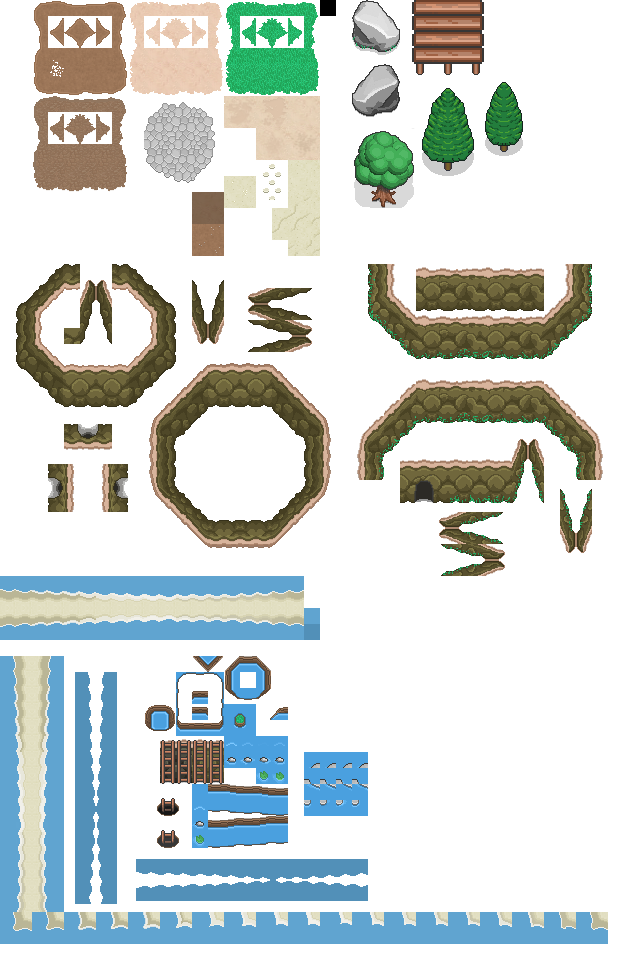
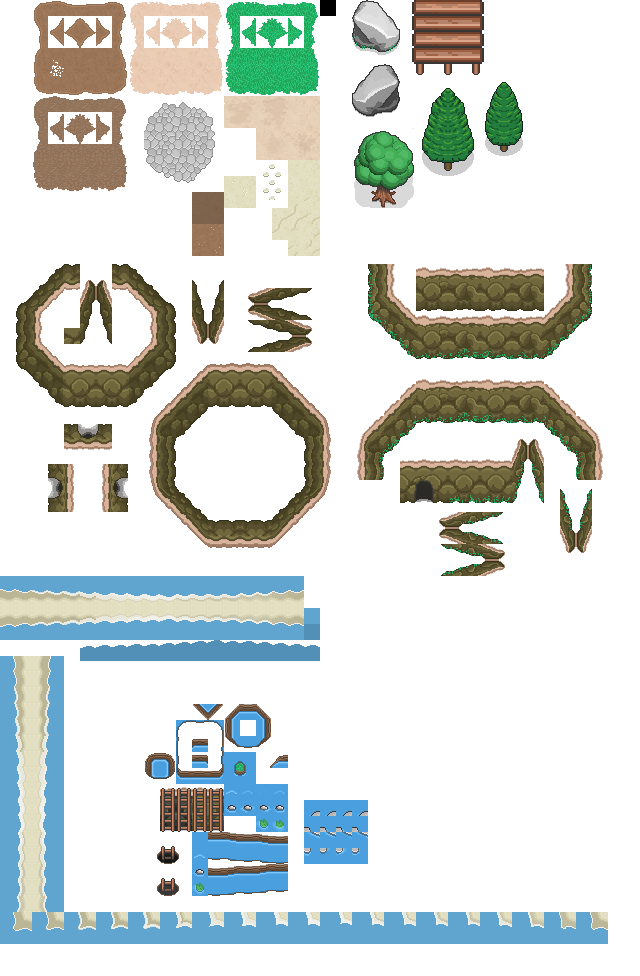
Added animations for the second set of waves

Changed region(s): [[0.0938, 0.6455, 0.5938, 0.9529]]

diff --git a/js/entrance.js b/js/entrance.js
@@ -18,13 +18,25 @@ var EntranceState = {
         //Create and animate the shore
         //Create a group of sprites to be the south shore, and animate them
         shore = game.add.group();
-        for (var i = 6; i < 400; i++) {
-            shorePiece =  shore.create(i*16,2320, 'shoreBottom');
+        for (var i = 2; i < 40; i++) {
+            shorePiece =  shore.create(i*16,720, 'shoreBottom');
+
         }
 
         shore.callAll('animations.add', 'animations', 'wave',
             [0,1,2,3,4,5,6,7,8,9,10,11,12,13,14,15,16,17,18], 10, true);
         shore.callAll('play', null, 'wave');
+
+        //Create a group to animate the secondary wave sprites
+
+        wave = game.add.group();
+        for (var i = 0; i < 40; i ++) {
+            wavePiece = wave.create(i*16, 752, 'waveBottom');
+        }
+
+        wave.callAll('animations.add', 'animations', 'wave2', [0,1,2,3,4,5,6,7,8,9,10,11,12,13,14], 10, true);
+        wave.callAll('play', null, 'wave2');
+
 
         // add the rest of the layers (rendered in this order)
         this.BeachFeatures = this.map.createLayer('BeachFeatures');
@@ -58,7 +70,7 @@ var EntranceState = {
         game.physics.p2.enable(eve);
         eve.body.collideWorldBounds = true;
         eve.body.clearShapes();
-        eve.body.addRectangle(28, 32, 0, 0);
+        eve.body.addRectangle(24, 20, 2, 6);
         eve.body.physicsBodyType = Phaser.Physics.P2JS;
 
         eve.body.fixedRotation = true;

diff --git a/js/LoadEntrance.js b/js/LoadEntrance.js
@@ -13,6 +13,7 @@ var LoadEntranceState = {
         this.game.load.spritesheet('Eve', 'assets/Spritesheets/Eve1_24-32.png', 24, 32);
         this.game.load.tilemap('Entrance', 'assets/tilemaps/Entrance.json', null, Phaser.Tilemap.TILED_JSON);
         this.game.load.spritesheet('shoreBottom', 'assets/Spritesheets/beach.png', 16,32);
+        this.game.load.spritesheet('waveBottom', 'assets/Spritesheets/wave.png', 16,32);
 
 
         this.game.load.image('TilesheetBiodome', 'assets/images/TilesheetBiodome.png');

diff --git a/js/boot.js b/js/boot.js
@@ -7,6 +7,6 @@ var BootState = {
 		game.physics.startSystem(Phaser.Physics.ARCADE);
 
 		//Load the title screen
-		game.state.start('loadTitle');
+		game.state.start('loadEntrance');
 	}
 };
